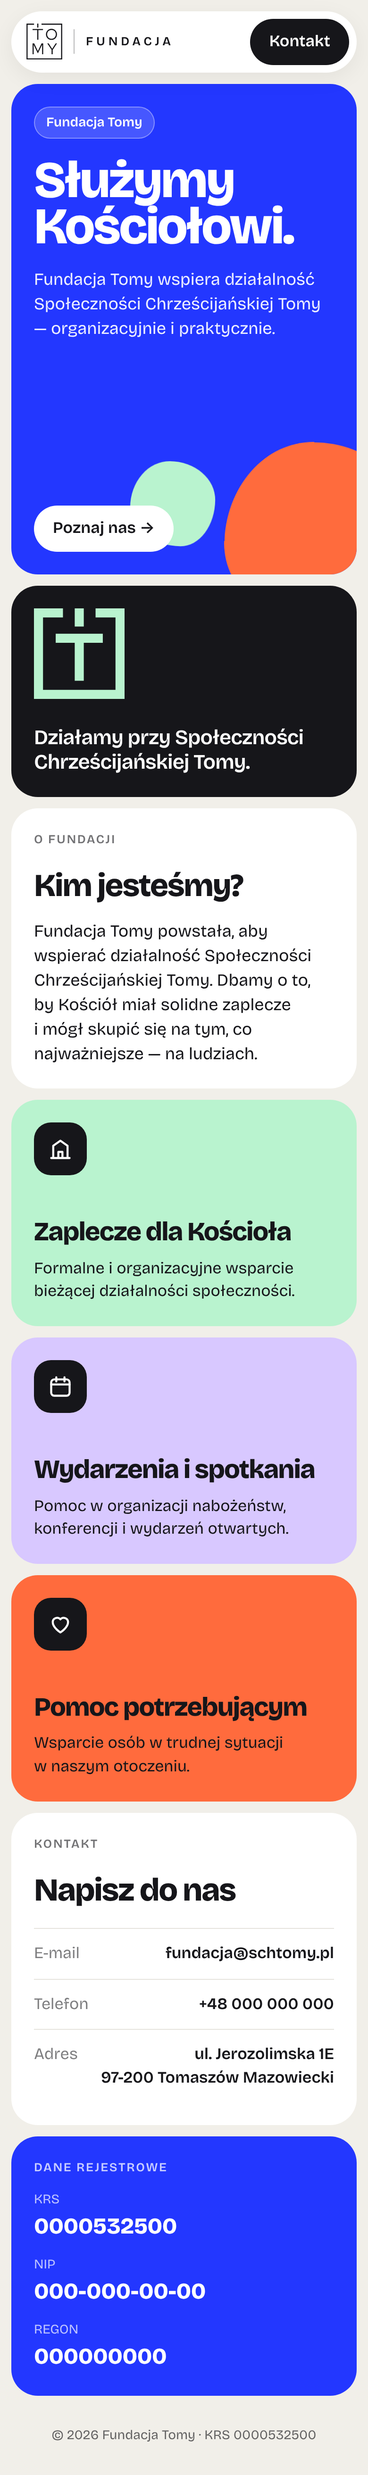
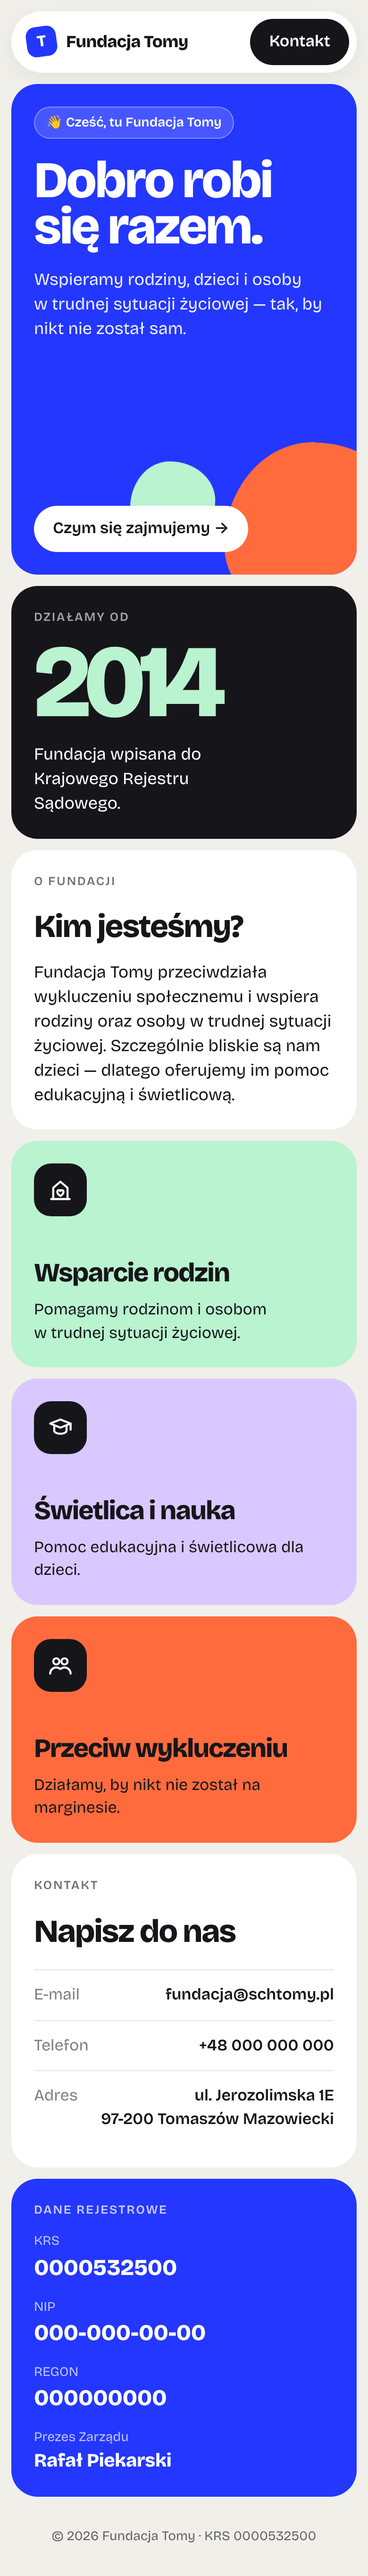
Powrót do oryginalnego wariantu C, treść o celach fundacji
Claude-Session: https://claude.ai/code/session_01J4SLrAMW9XHukf63235ayS

diff --git a/site/index.html b/site/index.html
@@ -4,7 +4,7 @@
   <meta charset="utf-8">
   <meta name="viewport" content="width=device-width, initial-scale=1">
   <title>Fundacja Tomy</title>
-  <meta name="description" content="Fundacja Tomy wspiera działalność Społeczności Chrześcijańskiej Tomy.">
+  <meta name="description" content="Fundacja Tomy przeciwdziała wykluczeniu społecznemu i wspiera rodziny oraz osoby w trudnej sytuacji życiowej, w tym dzieci – pomocą edukacyjną i świetlicową.">
   <meta name="theme-color" content="#2337ff">
   <link rel="icon" href="img/favicon.svg" type="image/svg+xml">
   <link rel="preload" href="fonts/bricolage-latin.woff2" as="font" type="font/woff2" crossorigin>
@@ -12,25 +12,11 @@
 </head>
 <body>
 
-<!-- Logo SCh Tomy (wstawione inline, żeby przyjmowało kolor tekstu) -->
-<svg width="0" height="0" style="position:absolute" aria-hidden="true">
-  <symbol id="logo" viewBox="0 0 512 512">
-    <g fill="currentColor">
-      <path d="M87.7,92.3v-15.1h149.2v15.1h-66.1v138.4h-16.9V92.3h-66.1Z"/>
-      <path d="M436.7,153.9c0,11-2,21.3-6.1,31-4.1,9.7-9.7,18.1-16.8,25.2-7.1,7.1-15.4,12.7-25.1,16.8-9.7,4.1-19.9,6.1-30.9,6.1s-21.3-2-31-6.1c-9.7-4.1-18.1-9.7-25.2-16.8-7.1-7.1-12.7-15.5-16.8-25.2-4.1-9.7-6.1-20.1-6.1-31s2-21.3,6.1-31c4.1-9.7,9.7-18.1,16.8-25.2,7.1-7.1,15.5-12.7,25.2-16.8,9.7-4.1,20.1-6.1,31-6.1s21.3,2,30.9,6.1c9.7,4.1,18,9.7,25.1,16.8,7.1,7.1,12.7,15.5,16.8,25.2,4.1,9.7,6.1,20.1,6.1,31ZM419.7,153.9c0-8.9-1.6-17.3-4.8-25.1-3.2-7.8-7.6-14.5-13-20.2-5.5-5.6-12-10.1-19.6-13.4-7.6-3.3-15.7-4.9-24.3-4.9s-17,1.6-24.6,4.9c-7.6,3.3-14.1,7.7-19.6,13.4-5.5,5.6-9.8,12.3-13,20.2-3.2,7.8-4.8,16.2-4.8,25.1s1.6,17.3,4.8,25c3.2,7.7,7.6,14.5,13,20.1,5.5,5.7,12,10.2,19.6,13.5,7.6,3.3,15.8,4.9,24.6,4.9s16.7-1.6,24.3-4.9c7.6-3.3,14.1-7.8,19.6-13.5,5.5-5.7,9.8-12.4,13-20.1,3.2-7.7,4.8-16.1,4.8-25Z"/>
-      <path d="M163.5,426.2l-60.1-123v134h-15.8v-153.5h23.7l52.4,109,52.2-109h23.7v153.5h-16v-134.2l-60.1,123.2Z"/>
-      <path d="M358.7,437.2v-62.5l-61-91h19.7l50.2,76.1,50-76.1h19.1l-61.2,91.7v61.8h-16.9Z"/>
-      <polygon points="215.4 0 215.4 16 495.1 16 495.1 496 16.9 496 16.9 16 109.1 16 109.1 0 .9 0 .9 512 511.1 512 511.1 0 215.4 0"/>
-      <path d="M153.8,57.1h16.9V0h-16.9v57.1Z"/>
-    </g>
-  </symbol>
-</svg>
-
 <header class="site-header">
   <div class="wrap">
     <div class="bar">
       <a class="lockup" href="#" aria-label="Fundacja Tomy – strona główna">
-        <svg><use href="#logo"/></svg><i></i><span>Fundacja</span>
+        <b>T</b><span>Fundacja Tomy</span>
       </a>
       <nav class="nav">
         <a href="#o-fundacji">O fundacji</a>
@@ -46,48 +32,44 @@
 
   <section class="tile hero">
     <div class="hero-text">
-      <span class="chip">Fundacja Tomy</span>
-      <h1>Służymy Kościołowi.</h1>
-      <p>Fundacja Tomy wspiera działalność Społeczności Chrześcijańskiej Tomy — organizacyjnie i&nbsp;praktycznie.</p>
+      <span class="chip">👋 Cześć, tu Fundacja Tomy</span>
+      <h1>Dobro robi się razem.</h1>
+      <p>Wspieramy rodziny, dzieci i&nbsp;osoby w&nbsp;trudnej sytuacji życiowej — tak, by nikt nie został sam.</p>
     </div>
-    <div class="hero-cta"><a class="btn light" href="#o-fundacji">Poznaj nas →</a></div>
+    <div class="hero-cta"><a class="btn light" href="#dzialania">Czym się zajmujemy →</a></div>
     <div class="blob" aria-hidden="true"></div>
     <div class="blob two" aria-hidden="true"></div>
   </section>
 
-  <section class="tile mark-tile" aria-label="Społeczność Chrześcijańska Tomy">
-    <svg class="mark" viewBox="0 0 1000 1000" aria-hidden="true"><g fill="currentColor">
-      <path d="M680 0H1000V1000H0V0H320V100H100V900H900V100H680Z"/>
-      <path d="M450 380H240V280H760V380H550V800H450Z"/>
-      <path d="M450 0H550V200H450Z"/>
-    </g></svg>
-    <p>Działamy przy Społeczności Chrześcijańskiej&nbsp;Tomy.</p>
+  <!-- TODO: potwierdzić rok (data wpisu do KRS: 2014) -->
+  <section class="tile stat" aria-label="Działamy od 2014 roku">
+    <div class="k">Działamy od</div>
+    <div class="num">2014</div>
+    <p>Fundacja wpisana do Krajowego Rejestru Sądowego.</p>
   </section>
 
   <section class="tile about" id="o-fundacji">
     <div class="k">O fundacji</div>
     <h2>Kim jesteśmy?</h2>
-    <!-- TODO: docelowy opis fundacji (2–3 zdania) -->
-    <p>Fundacja Tomy powstała, aby wspierać działalność Społeczności Chrześcijańskiej Tomy. Dbamy o&nbsp;to, by Kościół miał solidne zaplecze i&nbsp;mógł skupić się na tym, co najważniejsze — na ludziach.</p>
+    <p>Fundacja Tomy przeciwdziała wykluczeniu społecznemu i&nbsp;wspiera rodziny oraz osoby w&nbsp;trudnej sytuacji życiowej. Szczególnie bliskie są nam dzieci — dlatego oferujemy im pomoc edukacyjną i&nbsp;świetlicową.</p>
   </section>
 
-  <!-- TODO: potwierdzić trzy obszary działalności -->
   <section class="tile act mint" id="dzialania">
-    <div class="ico"><svg viewBox="0 0 24 24" aria-hidden="true"><path d="M3 21h18M5 21V9l7-5 7 5v12M10 21v-6h4v6"/></svg></div>
-    <h3>Zaplecze dla Kościoła</h3>
-    <p>Formalne i&nbsp;organizacyjne wsparcie bieżącej działalności społeczności.</p>
+    <div class="ico"><svg viewBox="0 0 24 24" aria-hidden="true"><path d="M3 21h18M5 21V10l7-6 7 6v11"/><path d="M12 18s-3-1.8-3-4a1.6 1.6 0 0 1 3-.9 1.6 1.6 0 0 1 3 .9c0 2.2-3 4-3 4z"/></svg></div>
+    <h3>Wsparcie rodzin</h3>
+    <p>Pomagamy rodzinom i&nbsp;osobom w&nbsp;trudnej sytuacji życiowej.</p>
   </section>
 
   <section class="tile act lilac">
-    <div class="ico"><svg viewBox="0 0 24 24" aria-hidden="true"><rect x="3" y="5" width="18" height="16" rx="3"/><path d="M3 10h18M8 3v4M16 3v4"/></svg></div>
-    <h3>Wydarzenia i&nbsp;spotkania</h3>
-    <p>Pomoc w&nbsp;organizacji nabożeństw, konferencji i&nbsp;wydarzeń otwartych.</p>
+    <div class="ico"><svg viewBox="0 0 24 24" aria-hidden="true"><path d="M2 8l10-4 10 4-10 4z"/><path d="M6 10v5c0 1.7 2.7 3 6 3s6-1.3 6-3v-5M22 8v6"/></svg></div>
+    <h3>Świetlica i&nbsp;nauka</h3>
+    <p>Pomoc edukacyjna i&nbsp;świetlicowa dla dzieci.</p>
   </section>
 
   <section class="tile act coral">
-    <div class="ico"><svg viewBox="0 0 24 24" aria-hidden="true"><path d="M12 20s-7.5-4.6-7.5-10.2A4.3 4.3 0 0 1 12 7.2a4.3 4.3 0 0 1 7.5 2.6C19.5 15.4 12 20 12 20z"/></svg></div>
-    <h3>Pomoc potrzebującym</h3>
-    <p>Wsparcie osób w&nbsp;trudnej sytuacji w&nbsp;naszym otoczeniu.</p>
+    <div class="ico"><svg viewBox="0 0 24 24" aria-hidden="true"><circle cx="8" cy="8" r="3"/><circle cx="16" cy="8" r="3"/><path d="M2 20c0-3.3 2.7-6 6-6 1.5 0 2.9.6 4 1.5a6 6 0 0 1 4-1.5c3.3 0 6 2.7 6 6"/></svg></div>
+    <h3>Przeciw wykluczeniu</h3>
+    <p>Działamy, by nikt nie został na marginesie.</p>
   </section>
 
   <section class="tile contact" id="kontakt">
@@ -110,6 +92,7 @@
       <!-- TODO: uzupełnić NIP i REGON -->
       <div><dt>NIP</dt><dd>000-000-00-00</dd></div>
       <div><dt>REGON</dt><dd>000000000</dd></div>
+      <div><dt>Prezes Zarządu</dt><dd class="name">Rafał Piekarski</dd></div>
     </dl>
   </section>
 

diff --git a/site/css/style.css b/site/css/style.css
@@ -50,10 +50,11 @@ section[id] { scroll-margin-top: 96px; }
   background: #fff; border-radius: 999px; padding: 8px 8px 8px 16px;
   box-shadow: 0 6px 24px rgba(0, 0, 0, .06);
 }
-.lockup { display: flex; align-items: center; gap: 12px; text-decoration: none; color: var(--ink); }
-.lockup svg { width: 38px; height: 38px; display: block; }
-.lockup i { width: 1px; height: 26px; background: currentColor; opacity: .3; }
-.lockup span { font-size: 13px; font-weight: 600; letter-spacing: .26em; text-transform: uppercase; }
+.lockup { display: flex; align-items: center; gap: 10px; text-decoration: none; color: var(--ink); font-weight: 800; font-size: 18px; letter-spacing: -0.02em; }
+.lockup b {
+  width: 32px; height: 32px; border-radius: 10px; background: var(--cobalt); color: #fff;
+  display: grid; place-items: center; font-size: 17px; transform: rotate(-8deg);
+}
 .nav { display: none; gap: 28px; font-weight: 600; }
 .nav a { text-decoration: none; }
 .nav a:hover { color: var(--cobalt); }
@@ -94,13 +95,10 @@ section[id] { scroll-margin-top: 96px; }
   50% { border-radius: 60% 40% 55% 45% / 40% 60% 40% 60%; transform: rotate(25deg) scale(1.05); }
 }
 
-/* kafelek ze znakiem */
-.mark-tile {
-  background: var(--ink); color: #fff;
-  display: flex; flex-direction: column; justify-content: space-between; gap: 28px;
-}
-.mark-tile .mark { width: 96px; height: 96px; color: var(--mint); }
-.mark-tile p { margin: 0; font-size: 22px; font-weight: 600; letter-spacing: -0.02em; line-height: 1.2; }
+/* kafelek z liczbą */
+.stat { background: var(--ink); color: #fff; }
+.stat .num { font-size: clamp(88px, 28vw, 150px); font-weight: 800; line-height: .85; letter-spacing: -0.06em; color: var(--mint); }
+.stat p { margin: 16px 0 0; font-size: 18px; max-width: 260px; }
 
 /* o fundacji */
 .about { background: #fff; }
@@ -138,6 +136,7 @@ section[id] { scroll-margin-top: 96px; }
 .registry dl { margin: 0; display: grid; gap: 14px; }
 .registry dt { font-size: 14px; opacity: .7; }
 .registry dd { margin: 0; font-size: 24px; font-weight: 800; letter-spacing: -0.01em; }
+.registry dd.name { font-size: 20px; }
 
 .site-footer { padding: 20px 12px 32px; font-size: 14px; opacity: .65; text-align: center; }
 .site-footer p { margin: 0; }
@@ -155,8 +154,9 @@ section[id] { scroll-margin-top: 96px; }
   .hero { grid-column: span 3; grid-row: span 2; min-height: 600px; }
   .blob { width: 420px; height: 420px; right: -90px; bottom: -110px; }
   .blob.two { width: 160px; height: 160px; right: 360px; bottom: 60px; }
-  .mark-tile { grid-row: span 2; }
-  .mark-tile .mark { width: 100%; height: auto; max-width: 220px; }
+  .stat { grid-row: span 2; display: flex; flex-direction: column; }
+  .stat .num { font-size: 104px; }
+  .stat p { margin-top: auto; }
 
   .about { grid-column: span 2; }
   .contact { grid-column: span 2; }

diff --git a/README.md b/README.md
@@ -7,7 +7,7 @@ site/
   index.html      ← treść strony
   css/style.css   ← wygląd (kolory na górze pliku)
   fonts/          ← czcionka Bricolage Grotesque (hostowana lokalnie, bez Google Fonts)
-  img/favicon.svg ← ikona w karcie przeglądarki (znak SCh Tomy)
+  img/favicon.svg ← ikona w karcie przeglądarki
 mockups/          ← makiety kierunków wizualnych (nie trafiają na serwer)
 .github/workflows/
   deploy-ftp.yml    ← automatyczny deploy na serwer FTP
@@ -20,7 +20,7 @@ Na serwer trafia **tylko** zawartość katalogu `site/`.
 
 Cała treść jest w `site/index.html`. Miejsca wymagające potwierdzenia są oznaczone komentarzem `TODO`.
 
-**Logo:** logo SCh Tomy jest wstawione bezpośrednio w HTML (`<symbol id="logo">`), żeby przyjmowało kolor tekstu.
+**Logo:** na razie znaczek „T” zrobiony w CSS (`.lockup` w `index.html`) i `img/favicon.svg`. Docelowe logo można podmienić w tych dwóch miejscach.
 
 Podgląd lokalnie: wystarczy otworzyć `site/index.html` w przeglądarce.
 
